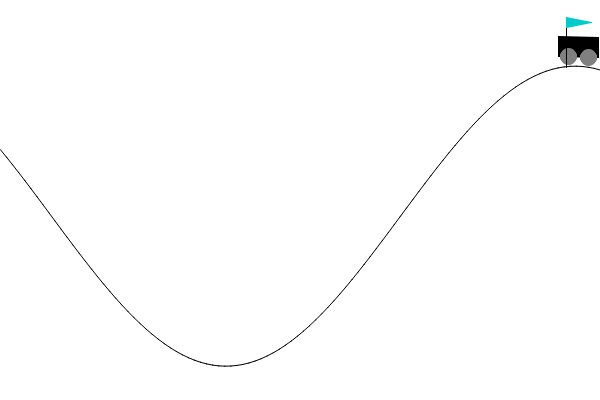
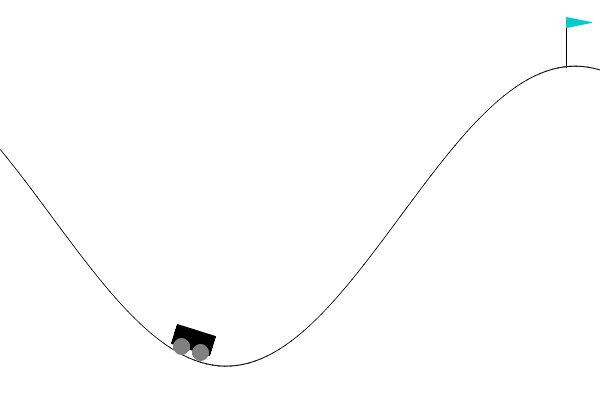
Fix bugs in mountain usecase

Changed region(s): [[0.27, 0.81, 0.36, 0.9], [0.93, 0.09, 1.0, 0.18]]

diff --git a/mountain/static/mountain/js/script.js b/mountain/static/mountain/js/script.js
@@ -15,60 +15,55 @@ document.addEventListener('keydown', (event)=> {
     }
 });
 
-
-
+// Reset controls when keys are released
+document.addEventListener('keyup', (event)=> {
+    if(event.key == 'ArrowLeft' || event.key == 'ArrowRight' || event.key == 'ArrowDown') {
+        left = 0;
+        right = 0;
+    }
+});
 
 // Connecting to the server's websocket
 const chatSocket = new WebSocket(
-    ws_setting
-    + '://'
-    + window.location.host
-    + window.location.pathname
+    ws_setting + '://' + window.location.host + window.location.pathname
 );
 
-
-
-// Flag used to avoid querying the server to fast if it did not yet reply
-isInUse = false;
+// Flag used to avoid querying the server too fast if it did not yet reply
+let isInUse = false;
 // Setting up an infinite loop to perform 'queryLoop', here every 41 milliseconds (~ 24 frames/second)
-refreshRate = 41;
-interval = setInterval(queryLoop, refreshRate);
+const refreshRate = 41;
+const interval = setInterval(queryLoop, refreshRate);
+
 // Asking the server to perform a step and sending the user's inputs
 function queryLoop() {
-    // If we already asked the server but it still did not reply, we skip and wait another round
-    if(isInUse){
-        return;
-    }
+    if (isInUse) return;
 
     try {
+        // Get control state from KeyPressDisplay
+        const controls = window.keyPressDisplay.getControlState();
+        
         // Send the user's inputs and set isInUse
-        chatSocket.send(JSON.stringify({
-            'left': left,
-            'right': right
-        }));
+        chatSocket.send(JSON.stringify(controls));
         // Set isInUse 
         isInUse = true;
     }
-    catch(err){
+    catch(err) {
         // If the websocket is still connecting, we catch the error and wait another round
-        if(err.message == "Failed to execute 'send' on 'WebSocket': Still in CONNECTING state."){
+        if (err.message === "Failed to execute 'send' on 'WebSocket': Still in CONNECTING state.") {
             console.log('Waiting for the websocket to connect');
         }
-        // Else we repport the error to the browser console
-        else{
+        // Else we report the error to the browser console
+        else {
             console.error(err.message);
         }
     }
-};
-
-
-
+}
 
 // When the server finishes a step and replies
 chatSocket.onmessage = function(e) {
     // We refresh the image on the page by taking the new one from the server
     // "?"+new Date().getTime() is used here to force the browser to re-download the image and not use a cached version
-    document.getElementById("image").src = image_scr+"?"+new Date().getTime();
+    document.getElementById("image").src = image_scr + "?" + new Date().getTime();
     // We set the image visible and hide the loading icon
     document.getElementById("image").style.visibility = 'visible';
     document.getElementById("loading_div").style.visibility = 'hidden';
@@ -77,10 +72,12 @@ chatSocket.onmessage = function(e) {
     // Replace the subtitle text by the new step number received
     document.getElementById("sub-title").innerText = "Step " + data.step;
     // If the game is over
-    if(data.message == 'done'){
+    if (data.message === 'done') {
         // Stop the infinite loop
         clearInterval(interval);
         console.log("Game over");
+        // Update the key press display
+        window.keyPressDisplay.setGameOver(true);
         // Replace the subtitle text by adding "game over" and a restart button
         document.getElementById("sub-title").innerHTML = document.getElementById("sub-title").innerText + " (game over) " + restart_button;
     } 
@@ -88,11 +85,8 @@ chatSocket.onmessage = function(e) {
     isInUse = false;
 };
 
-
-
-
 // When the server closes the connection
-chatSocket.onclose = function(e) {
+chatSocket.onclose = function() {
     // We stop the infinite loop
     clearInterval(interval);
     console.log('Websocket closed by the server');

diff --git a/mountain/static/mountain/js/keyPressDisplay.js b/mountain/static/mountain/js/keyPressDisplay.js
@@ -1,42 +1,56 @@
 class KeyPressDisplay {
     constructor() {
-      this.keyPressedBox = document.getElementById('key-pressed-box');
-      this.keyPressedText = document.getElementById('key-pressed-text');
-      this.isGameOver = false;
-      this.setupEventListeners();
+        this.keyPressedText = document.getElementById('key-pressed-text');
+        this.leftPressed = false;
+        this.rightPressed = false;
+        this.setupEventListeners();
     }
   
     setupEventListeners() {
-      document.addEventListener('keydown', (event) => this.handleKeyDown(event));
-      document.addEventListener('keyup', (event) => this.handleKeyUp(event));
+        document.addEventListener('keydown', (event) => this.handleKeyEvent(event, true));
+        document.addEventListener('keyup', (event) => this.handleKeyEvent(event, false));
     }
   
-    handleKeyDown(event) {
-      if (this.isGameOver) return;
-      if (event.key === 'ArrowLeft') {
-        this.updateDisplay('← Left');
-      } else if (event.key === 'ArrowRight') {
-        this.updateDisplay('→ Right');
-      }
+    handleKeyEvent(event, isKeyDown) {
+        if (event.key === 'ArrowLeft') {
+            this.leftPressed = isKeyDown;
+        } else if (event.key === 'ArrowRight') {
+            this.rightPressed = isKeyDown;
+        }
+        
+        this.updateDisplay();
     }
   
-    // Method to get current control state
+    updateDisplay() {
+        if (!this.keyPressedText) {
+            console.error('Key press display elements not found');
+            return;
+        }
+        if (this.leftPressed) {
+            this.keyPressedText.textContent = '← Left';
+        } else if (this.rightPressed) {
+            this.keyPressedText.textContent = '→ Right';
+        } else {
+            this.keyPressedText.textContent = 'No key pressed';
+        }
+    }
+  
     getControlState() {
-      return {
-        left: this.left,
-        right: this.right
-      };
+        return {
+            left: this.leftPressed ? 1 : 0,
+            right: this.rightPressed ? 1 : 0
+        };
     }
-  
-    // Method to set game over state
+
     setGameOver(isOver) {
-      this.isGameOver = isOver;
+        if (isOver) {
+            this.leftPressed = false;
+            this.rightPressed = false;
+            this.updateDisplay();
+        }
     }
-  }
+}
   
-  // Initialize when the DOM is loaded
-  document.addEventListener('DOMContentLoaded', () => {
-    const keyPressDisplay = new KeyPressDisplay();
-    // Make the instance available globally if needed
-    window.keyPressDisplay = keyPressDisplay;
-  }); 
+document.addEventListener('DOMContentLoaded', () => {
+    window.keyPressDisplay = new KeyPressDisplay();
+}); 

diff --git a/mountain/templates/mountain/run.html b/mountain/templates/mountain/run.html
@@ -12,7 +12,6 @@
   </script>
   <script src="{% static app_folder %}/js/script.js"></script>
   <script src="{% static app_folder %}/js/keyPressDisplay.js"></script>
-  <script src="{% static app_folder %}/js/keyboardKeys.js"></script>
 
   <section class="text-center">
     <div class="container">
